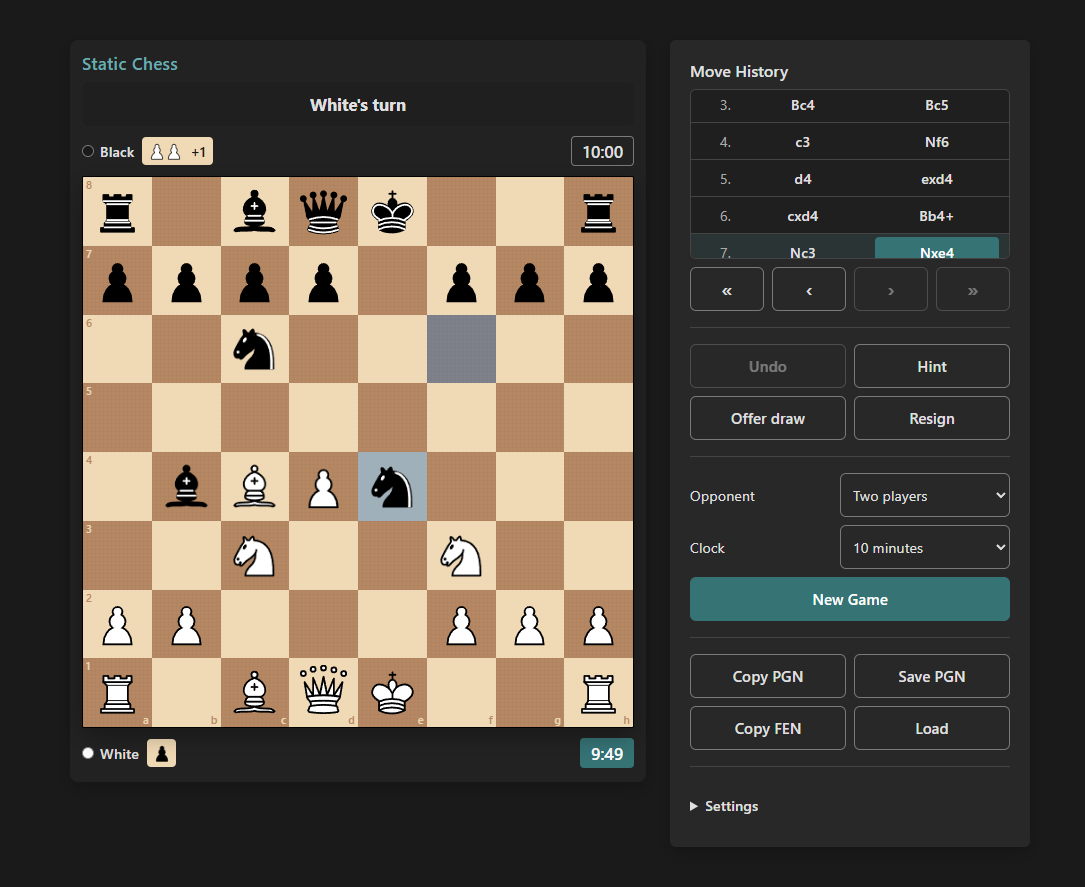
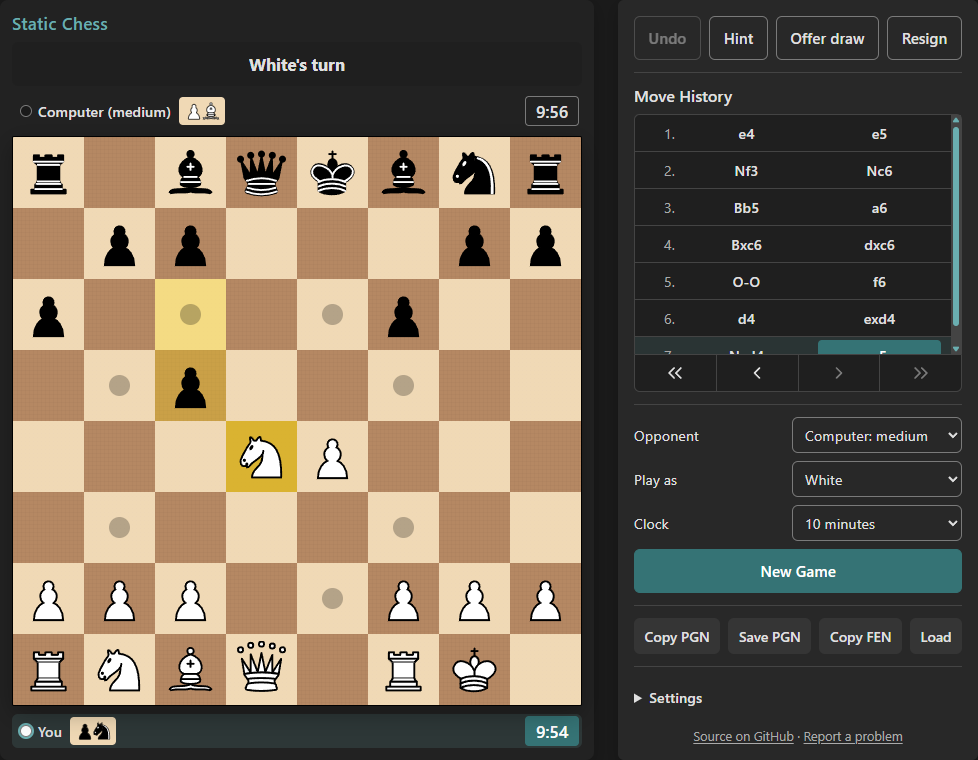
UI: describe the reworked interface; retake the README screenshots
The changelog lists what changed in the side panel, the layout, the
player bars, the end of a game, the board highlights and the keys.
The README's How to Play mentions the page-wide keys and "Review", and
ARCHITECTURE.md names renderPlayers() and handlePageKey().

Both README screenshots showed the interface as it was before the
rework. They are retaken at the same two states: a game on the clock
against the computer, and looking back in the light theme with the
green board and Settings open.

diff --git a/docs/ARCHITECTURE.md b/docs/ARCHITECTURE.md
@@ -128,7 +128,7 @@ The scripts are plain `<script>` files in one global scope, loaded in the order 
 - `rules.js` depends only on `pieces.js` and `utils.js`; `ai.js` builds on `rules.js` (`allLegalMoves`, `allLegalCaptures`, `applyMove`, `isInCheck`, `positionKey`). Neither touches the DOM, which is what lets `ai-worker.js` load them in a Web Worker
 - `board.js` owns the selection (`getSelectedSquare()`, `getPossibleMoves()` and their setters) and renders what it is given; it reads nothing from `game.js`. The last move to highlight is an argument of `updateBoardVisuals()`
 - `game.js` owns the game state and calls into `board.js`, `rules.js`, `promotion.js` and the files below. What is left in it is the state of the game and what changes it: the move flow, undo, the end of the game, the computer's turn, and the steps that apply a clock tick, a hint, a review, a saved or a loaded game to that state
-- `game-ui.js` draws everything on the page apart from the board: the status line, the buttons, the clocks, the move list, the captured pieces, announcements and the Load dialog. It holds no game. `game.js` tells it what to show in plain values (`renderStatus(text)`, `renderControls(view)`, `renderClocks(clocks)`, `renderMoveList(moves, view)`, `renderCaptured(taken, lead)`, `renderHint(move)`) and hands it its handlers once (`bindControls()`); the Load dialog calls back into `importPGN()`, `importFEN()` and `readArchive()`. `tests/unit/game-ui.test.js` loads it without `game.js`
+- `game-ui.js` draws everything on the page apart from the board: the status line, the buttons, the clocks, the move list, the captured pieces, announcements and the Load dialog. It holds no game. `game.js` tells it what to show in plain values (`renderStatus(text)`, `renderControls(view)`, `renderPlayers(players)`, `renderClocks(clocks)`, `renderMoveList(moves, view)`, `renderCaptured(taken, lead)`, `renderHint(move)`) and hands it its handlers once (`bindControls()`), among them `handlePageKey()` for keys pressed outside the board, form fields and dialogs; the Load dialog calls back into `importPGN()`, `importFEN()` and `readArchive()`. `tests/unit/game-ui.test.js` loads it without `game.js`
 - `notation.js`, `saved-game.js`, `game-store.js`, `clock.js` and `review.js` hold what needs no page and no game: writing SAN and PGN (`writeSAN()`, `writePGN()`), reading PGN and FEN into moves that have been checked (`readPGN()`, `readFEN()`), validating a saved game, reading and writing the browser's storage (`storeGame()`, `readStoredGame()`, `readArchive()`, `addToArchive()`), clock arithmetic and rules (`timeLeft()`, `lowTimeLevel()`, `timeoutResult()`), and the wording of the engine's scores (`scoreText()`, `scoreDrop()`). They take what they work on as arguments and can be loaded and tested with no document (`tests/unit/no-dom.test.js`)
 - `engine-bridge.js` is the only file that talks to the worker. It knows nothing about the game: `game.js` hands it a position and gets a move back, or a list of positions and gets a score for each. Requests travel on named channels, each with a worker of its own; only the latest request on a channel counts, and channels do not affect each other
 - `drag.js` calls `board.js` for the selection and `game.js` for `isBoardLocked()`, `isOwnPiece()`, `generateLegalMovesForPiece()`, `playChosenMove()` and `refreshBoardVisuals()`; it reads no state of the game directly

diff --git a/README.md b/README.md
@@ -128,7 +128,7 @@ It is designed to be simple, lightweight, and easily deployable on static hostin
 The game features an elegant, professional-looking interface with a dark theme and subtle visual cues:
 
 <p align="center">
-  <img src="assets/screenshots/game-in-progress.png" alt="A game in progress on the clock: the board with each player's bar, the move list, and the game controls" width="45%" style="margin-right: 2%;" valign="top">
+  <img src="assets/screenshots/game-in-progress.png" alt="A game in progress on the clock against the computer: the board with each player's bar, the game buttons, the move list, and the new-game settings" width="45%" style="margin-right: 2%;" valign="top">
   <img src="assets/screenshots/settings-open.png" alt="Looking back at an earlier move in the light theme with the green board, with Settings open" width="45%" valign="top">
 </p>
 
@@ -175,7 +175,7 @@ That's it! No build process or dependencies are required.
 8. Game ends with checkmate, stalemate or a draw (insufficient material, threefold repetition, fifty-move rule)
 9. Click "Undo" to take back the last move, or "New Game" to reset the board (a game in progress asks for a second click)
 10. Click "Copy PGN" to copy the game for an analysis board or to share it, or "Save PGN" to save it as a file
-    - Click a move in the Move History (or use the arrow keys, Home and End there) to look at the position after it. "Play from here" (asked twice) drops the later moves and lets you go on from the position you are looking at; the game as it was is kept under "Past games". While you look back, a line under the list says what the engine makes of the position ("Engine thinks White is ahead by 1.3"). The four buttons under the list step to the starting position, the previous move, the next move and the latest move; "Back to game" returns to the live position
+    - Click a move in the Move History (or use the arrow keys, Home and End there) to look at the position after it. Left and Right also step through the moves from anywhere else on the page, and Esc returns to the game. When a game is over, "Review" beside the result starts from the first position. "Play from here" (asked twice) drops the later moves and lets you go on from the position you are looking at; the game as it was is kept under "Past games". While you look back, a line under the list says what the engine makes of the position ("Engine thinks White is ahead by 1.3"). The four buttons under the list step to the starting position, the previous move, the next move and the latest move; "Back to game" returns to the live position
     - "Resign" ends the game after a second click. "Offer draw" is accepted by the other side with a second click, or answered at once by the computer. Undo reopens a game ended this way
     - "Load" replaces the game with a PGN game you paste, keeping its result (a resigned, drawn or timed-out game stays finished; Undo reopens it), or starts a new game from a FEN position you paste. "Open file" in that dialog reads a `.pgn` or `.fen` file instead, and a file can also be dropped on the dialog. It also lists your last 20 games under "Past games" (a game goes there when you start or load another); click one to open it again
     - "Copy FEN" copies the position on the board

diff --git a/CHANGELOG.md b/CHANGELOG.md
@@ -57,6 +57,12 @@ All notable changes to this project will be documented in this file.
 
 ### Changed
 
+- **Side panel**: The buttons used during a game (Undo, Hint, Offer draw, Resign) come first, next to the board on any screen. New Game is the one filled button; Copy PGN, Save PGN, Copy FEN and Load are quieter; the four step buttons are a strip joined to the move list
+- **Layout**: The page fits a 1440x900 and a 1280x720 window without scrolling, the move list takes the height that is left, and the board grows up to 720px on large screens
+- **Player bars**: Against the computer the bars read "You" and "Computer (level)"; the bar of the side to move is tinted, and "thinking" shows beside the computer's name while it works out its move
+- **End of a game**: The result stands out in the status bar, with "Review" and "New game" buttons beside it
+- **Board highlights**: Yellow marks the piece picked up and, more softly, the last move; legal moves are a dot on an empty square and a ring around a piece that can be taken
+- **Keys**: Left and Right step through the moves and Esc returns to the game from anywhere on the page except the board, where the arrow keys still move between squares
 - "Show coordinates" labels the board edges only: the file letters along the rank nearest the player and the rank numbers down the left side, 16 labels instead of 126. They follow a flipped board and stay visible on the squares of the last move and on squares a piece can move to
 - The page carries a Content-Security-Policy that lets it load only its own files
 - The "Load PGN" button is now "Load", since it takes a FEN position as well
